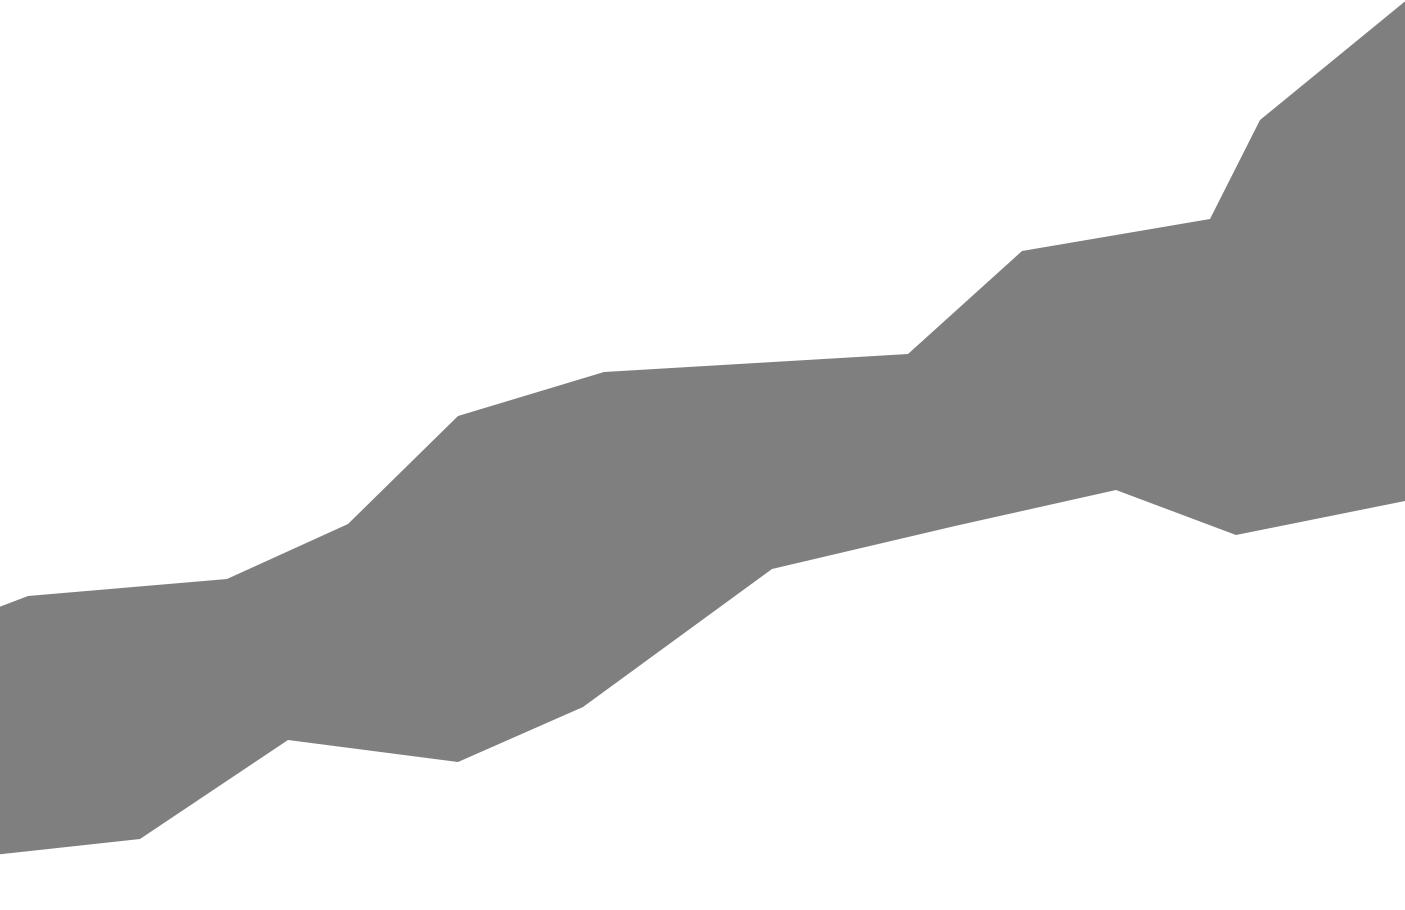
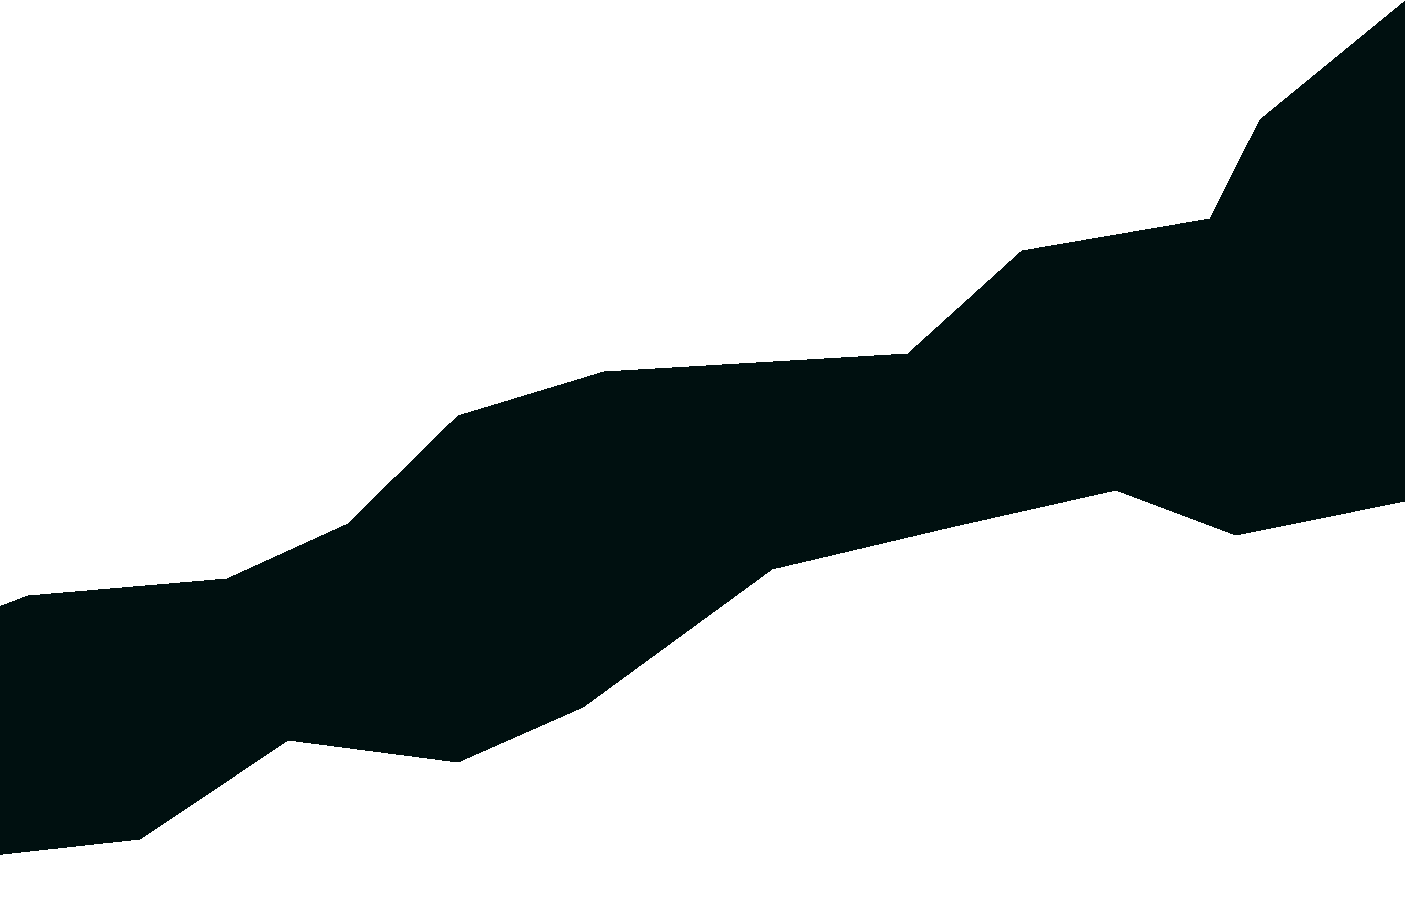
updated theme

diff --git a/src/components/core/Drawer.vue b/src/components/core/Drawer.vue
@@ -2,13 +2,13 @@
   <v-navigation-drawer
     v-if="$vuetify.breakpoint.mdAndUp"
     app
+    id="nav"
     class="text-xs-center"
-    style="background-color: #181818;"
     permanent
   >
     <v-layout align-center column fill-height justify-center py-5>
       <h2 class="display-3 font-weight-black primary--text mb-2" v-text="initials" />
-      <div class="display-1 mb-2" v-text="schema.basics.name" />
+      <div class="display-1 mb-2 secondary--text" v-text="schema.basics.name" />
       <span class="title font-weight-light mb-5" v-text="schema.basics.label" />
       <v-container fluid>
         <v-layout row wrap justify-center>
@@ -61,10 +61,10 @@ export default {
         text: "Portfolio",
         to: "#portfolio"
       },
-      {
-        text: "Clients",
-        to: "#clients"
-      },
+      // {
+      //   text: "Clients",
+      //   to: "#clients"
+      // },
       {
         text: "Contact",
         to: "#contact"
@@ -77,3 +77,11 @@ export default {
   }
 };
 </script>
+
+<style>
+#nav {
+  background-color: #001010;
+  border-right: 1px solid #00d2c8;
+}
+</style>
+

diff --git a/src/views/AboutMe.vue b/src/views/AboutMe.vue
@@ -33,13 +33,13 @@
       </section>
 
       <section>
-        <core-heading v-text="'What I can do for you.'" />
+        <core-heading v-text="'What I can do!'" />
         <div>
           <v-expansion-panel v-model="expansion" popout>
             <v-expansion-panel-content
               v-for="(item,i) in items"
               :key="i"
-              :class="expansion !== i ? 'transparent' : ''"
+              :class="expansion !== i ? 'transparent' : ' info'"
             >
               <div slot="header" class="title font-weight-light">
                 <div v-text="item.name" />
@@ -58,8 +58,8 @@
     </v-flex>
 
     <v-flex hidden-sm-and-down md5 text-xs-right text-uppercase>
-      <div class="display-1" v-text="schema.basics.label" />
-      <span class="primary--text headline font-weight-light" v-text="schema.basics.name" />
+      <!-- <div class="display-1" v-text="schema.basics.label" />
+      <span class="primary--text headline font-weight-light" v-text="schema.basics.name" />-->
       <!-- <v-img
         :src="require('@/assets/john.png')"
         height="100%"

diff --git a/src/views/Hero.vue b/src/views/Hero.vue
@@ -10,12 +10,12 @@
     >
       <div>
         <div
-          :class="`display-${$vuetify.breakpoint.mdAndUp ? '3' : '1'}`"
+          :class="`display-${$vuetify.breakpoint.mdAndUp ? '3' : '2'}`"
           class="text-uppercase"
           v-text="schema.basics.name"
         />
         <h1
-          :class="`display-${$vuetify.breakpoint.mdAndUp ? '4' : '2'}`"
+          :class="`display-${$vuetify.breakpoint.mdAndUp ? '2' : '1'}`"
           class="primary--text text-uppercase"
           v-text="schema.basics.label"
         />

diff --git a/src/plugins/vuetify.js b/src/plugins/vuetify.js
@@ -5,8 +5,13 @@ import "vuetify/src/stylus/app.styl";
 
 Vue.use(Vuetify, {
   theme: {
-    primary: "#00d2c8",
-    accent: "#fff"
+    primary: "#DC8C2A", // orange
+    secondary: "#00D2C8", // light blue
+    accent: "#AE81E9", // light purple
+    error: "#FF5252",
+    info: "#00A79F", // accent blue
+    success: "#4CAF50",
+    warning: "#FFC107"
   },
   components: {
     VLayout

diff --git a/src/App.vue b/src/App.vue
@@ -74,4 +74,8 @@ html {
 .text-decoration-none {
   text-decoration: none;
 }
+.theme--dark.application {
+  background: #000;
+  color: #fff;
+}
 </style>
